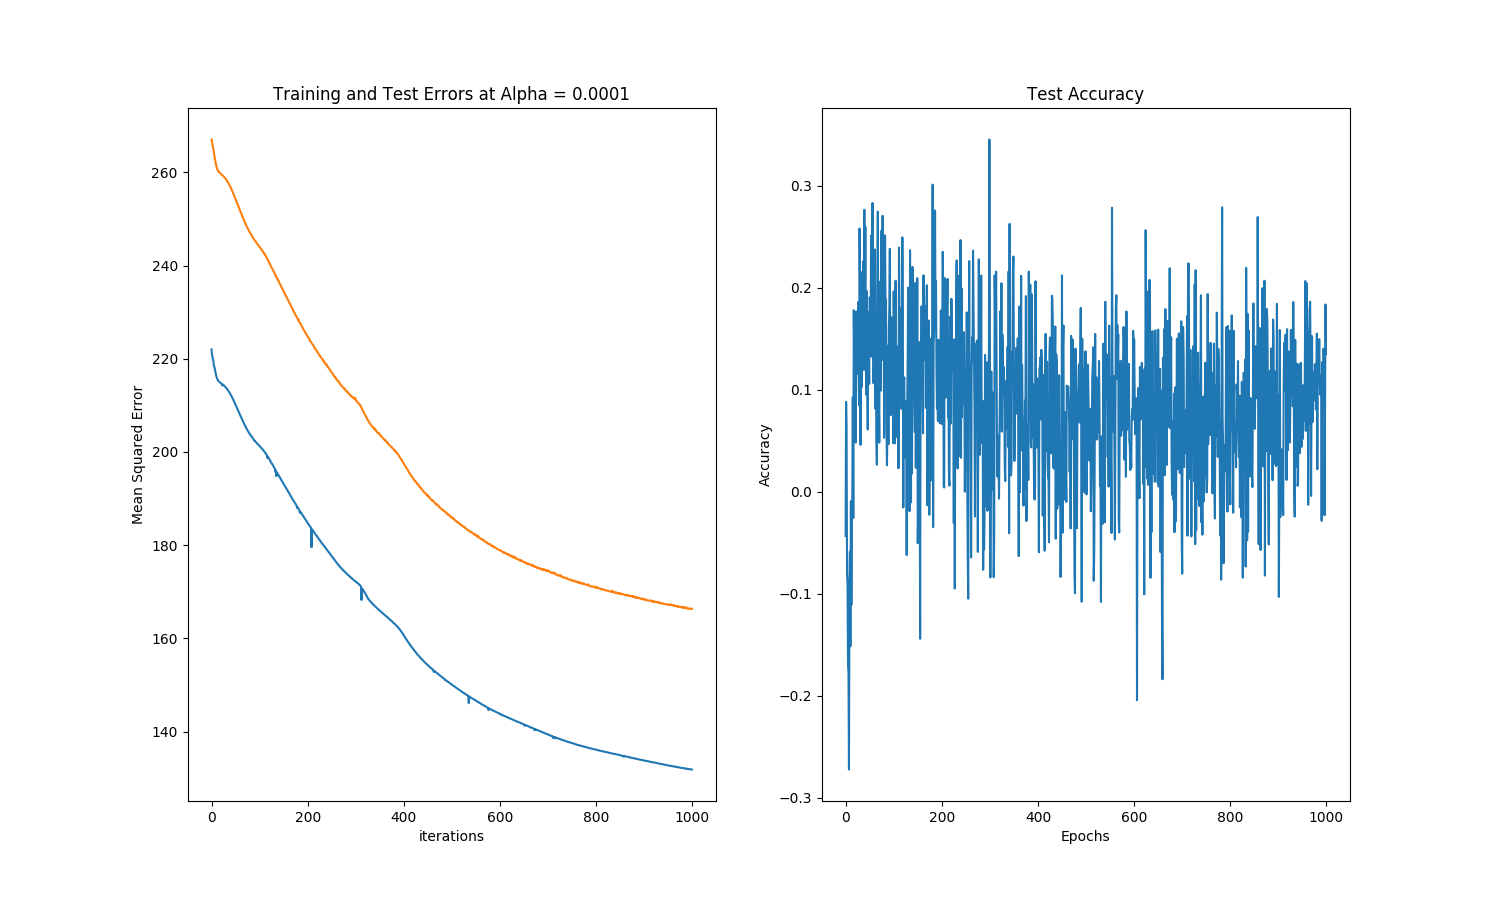
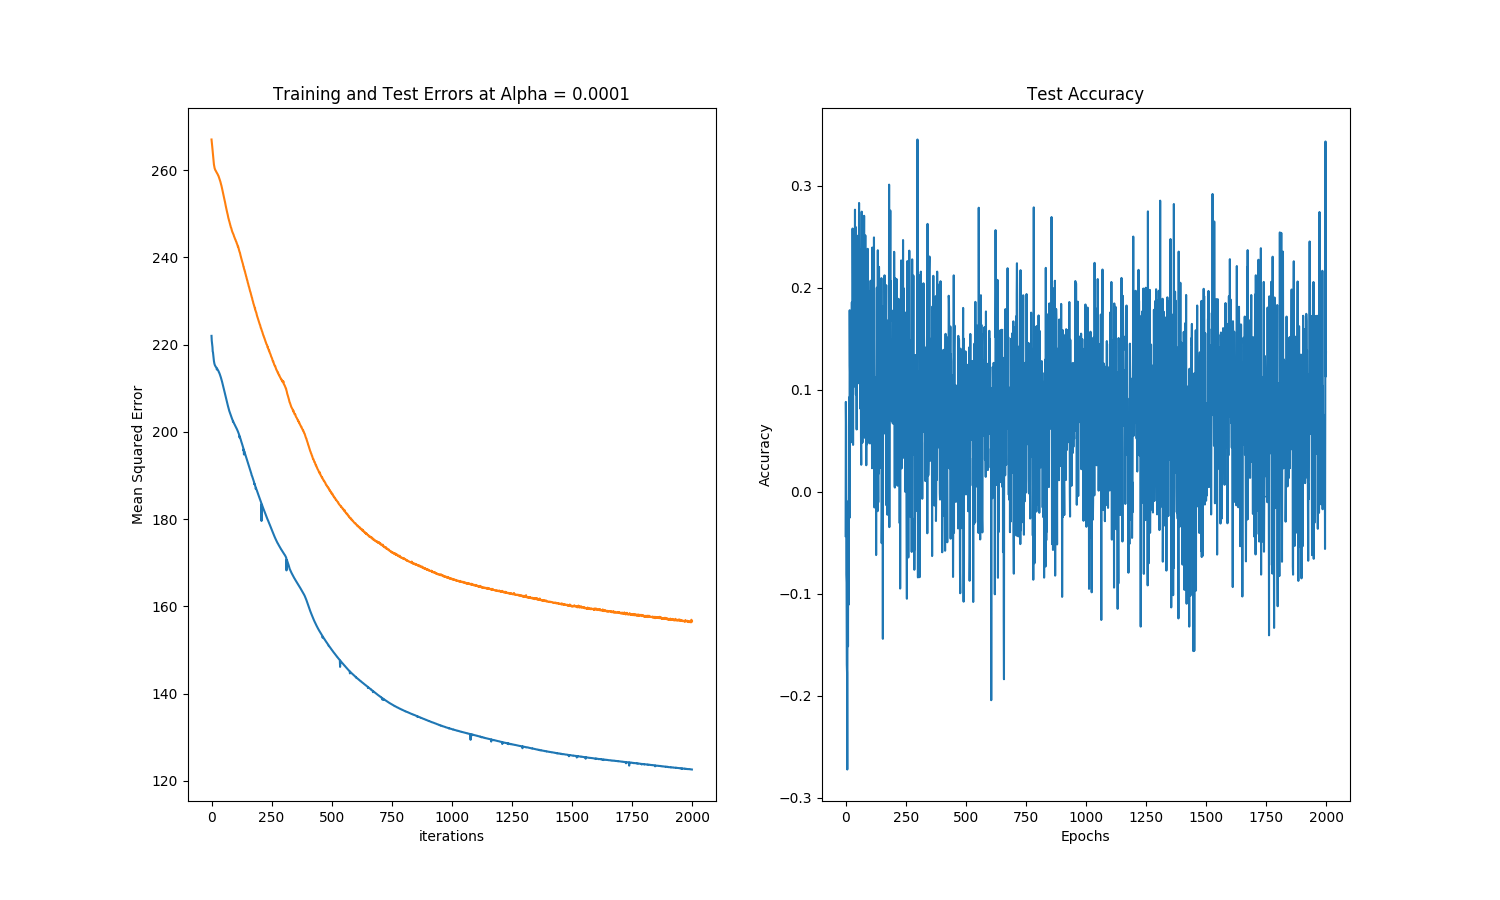
final

diff --git a/web/db.py b/web/db.py
@@ -1,17 +1,17 @@
 BOOKS =[
     "312 Ways To Die",
-    "7 Ways To Kill Yourself With Shampoo",
+    "24 Hours to Code : no sleep",
     "A Great Plenty",
     "A la recherche du temps perdu",
     "A Stitch In Time",
     "A Trip To The Dentist",
+    "A review : 7 Ways To Kill Yourself With Shampoo",
     "A Whole Lot Of Cats",
-    "Achy Breaky Heart",
     "Acrophobia Explained",
     "Advanced Math",
     "After The Corned Beef And Cabbage",
     "Ah, Thor!",
-    "All Alone",
+    "All Different Ways To Spell Bob",
     "All-You-Can-Eat Buffets",
     "Allegiance To The King",
     "Almost Missed The Bus",
@@ -25,7 +25,7 @@ BOOKS =[
     "Antlers In The Tree Top",
     "April Fool!",
     "Archery",
-    " Are We There Yet?",
+    "Are We There Yet?",
     "Armed Heists",
     "Artificial Clothing",
     "Artificial Weightlessness",
@@ -114,7 +114,6 @@ BOOKS =[
     "Desert Crossing",
     "Desert Storm Approaches",
     "Dieting",
-    "Different Ways To Spell Bob",
     "Dinner Delight",
     "Dirty Chinese Windows",
     "Dive! Dive !",

diff --git a/nn/nn_memory_leak.py b/nn/nn_memory_leak.py
@@ -10,18 +10,13 @@ import json
 
 np.random.seed(10)
 
-epochs = 1000
-<<<<<<< HEAD
+epochs = 2000
 batch_size = 64
 no_hidden1 = 50 #num of neurons in hidden layer 1
-=======
-batch_size = 32
-no_hidden1 = 60 #num of neurons in hidden layer 1
->>>>>>> ccb8b1a978b4c4865adff46438e38506bc60b0dd
 learning_rate = 0.0001
 print(batch_size)
 print(no_hidden1)
-print(lear)
+print(learning_rate)
 
 floatX = theano.config.floatX
 
@@ -119,7 +114,7 @@ best_b_o = 0
 best_b_h1 = np.zeros(no_hidden1)
 
 alpha.set_value(learning_rate)
-print(alpha.get_value())
+
 n = len(trainX)
 print(n)
 t = time.time()
